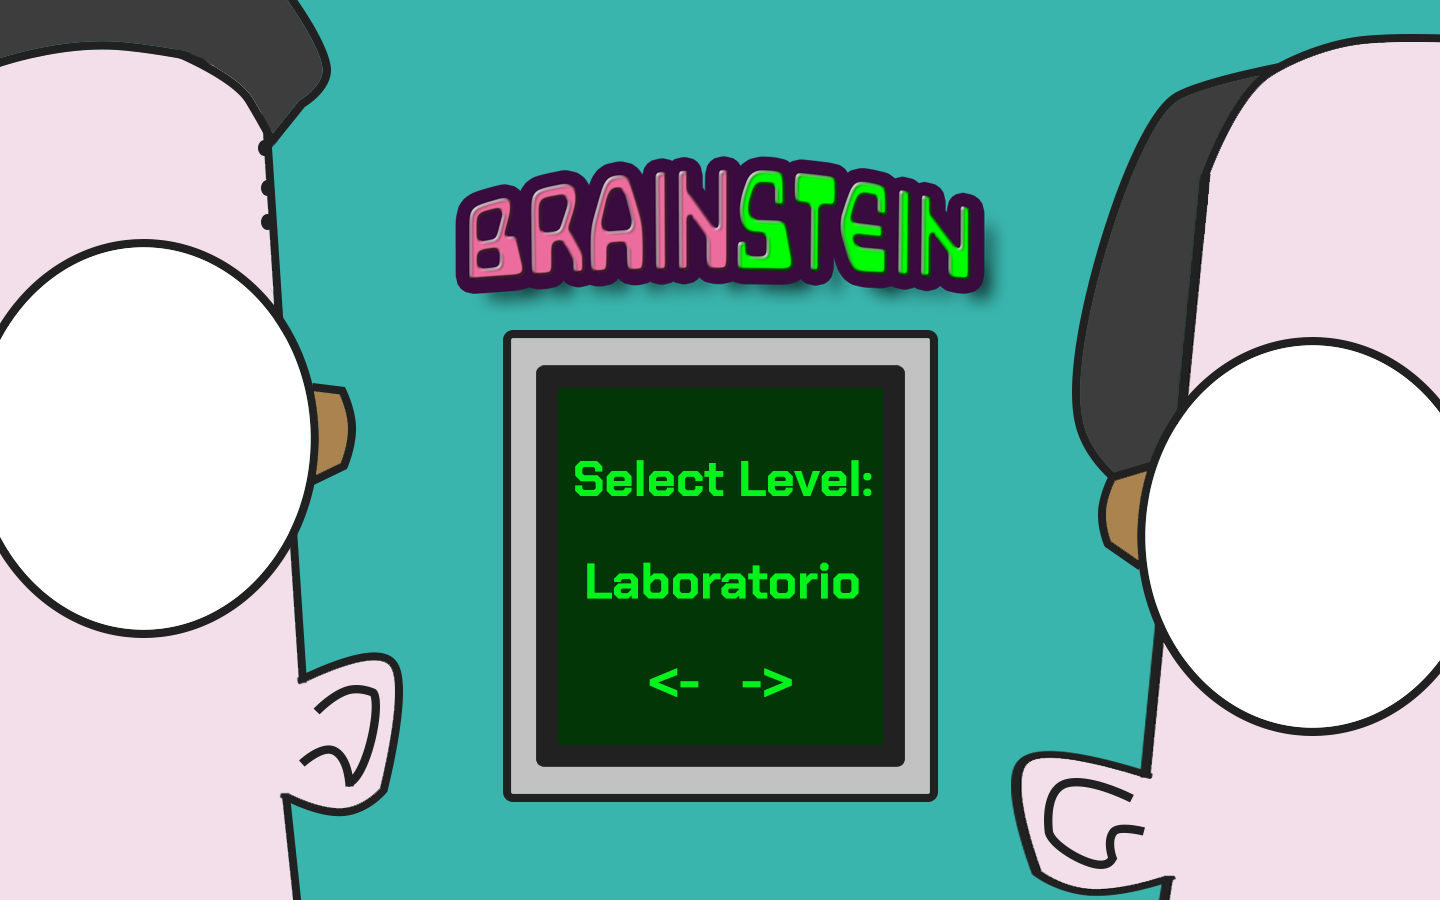
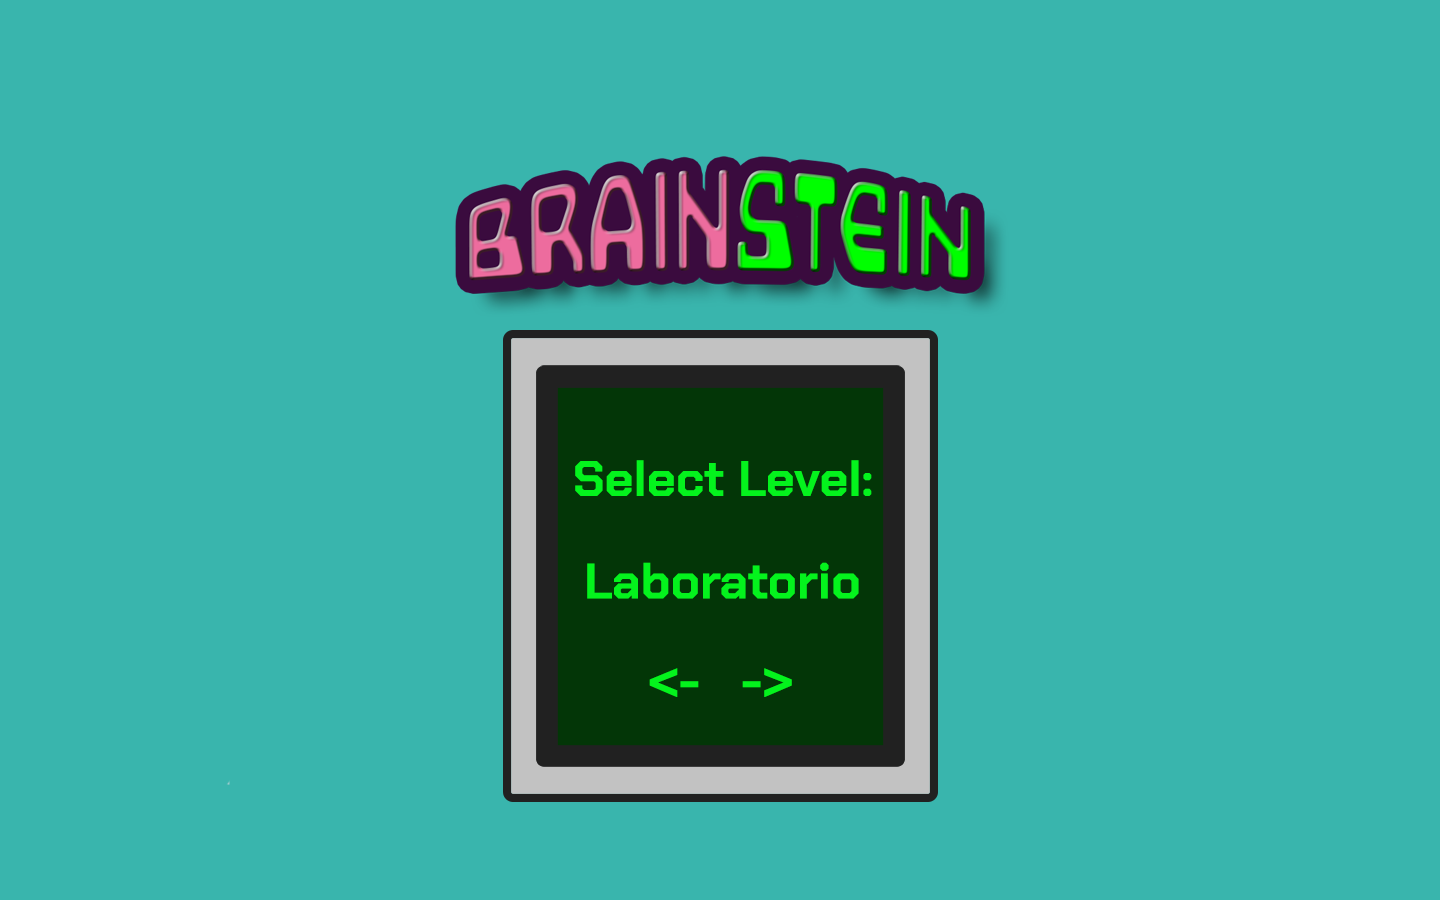
mejoras menu

diff --git a/Brainstein/js/states/LevelSelection.js b/Brainstein/js/states/LevelSelection.js
@@ -1,13 +1,29 @@
 var Brainstein = Brainstein || {};
 Brainstein.LevelSelection = function(){};
-
+var num = 0;
+var aux = 0;
 Brainstein.LevelSelection = {
 	create: function(){
 		//Show background					
 		this.background = this.game.add.sprite(0, 0, 'mainMenuSplash');		
 		this.background.width = (this.game.width);
         this.background.height = (this.game.height);
+        /*
+        this.manoErwin = this.game.add.sprite(this.game.width/2, this.game.height * 2/3, 'mano');
+        this.manoErwin.anchor.setTo(1,0);
+        this.manoErwin.x = this.game.width /2;        
+        this.manoDarwin = this.game.add.sprite(this.game.width/2, this.game.height * 2/3, 'mano');
+        this.manoDarwin.scale.x *= -1;
+        this.manoDarwin.anchor.setTo(1,0);
+        */
+       this.menuErwin = this.game.add.sprite(-5,-30, 'menuErwin');
+       this.menuErwin.width = (this.game.width / 3);
+       this.menuErwin.height = (this.game.height + this.game.height *0.2 );
 
+       this.menuDarwin = this.game.add.sprite(this.game.width *2/3,-30, 'menuDarwin');	
+       this.menuDarwin.width = (this.game.width / 3);
+       this.menuDarwin.height = (this.game.height + this.game.height *0.2);
+        
         this.levels = ["Laboratorio", "Zombiehenge", "Ratlabyrinth"];
         
         this.levelSelected = 0;
@@ -20,6 +36,16 @@ Brainstein.LevelSelection = {
 	},
 
 	update: function(){
+        
+		//this.manoErwin.x = this.manoErwin.x + Math.sin(aux);
+        //this.manoDarwin.x = this.manoDarwin.x - Math.sin(aux);
+        //aux =+ 3;
+       this.menuErwin.y = this.menuErwin.y + Math.sin(num);
+		this.menuErwin.x = this.menuErwin.x + Math.cos(num);
+		this.menuDarwin.y = this.menuDarwin.y + Math.cos(num);
+		this.menuDarwin.x = this.menuDarwin.x + Math.sin(num);
+        num += 0.8;
+        
 		if(this.game.input.keyboard.isDown(Phaser.Keyboard.ENTER)){
             this.game.switchOptionSound.play();
 			this.game.state.start('Game');

diff --git a/Brainstein/js/states/MainMenu.js b/Brainstein/js/states/MainMenu.js
@@ -1,9 +1,10 @@
 var Brainstein = Brainstein || {};
 Brainstein.MainMenu = function(){};
-var num = 0;
 Brainstein.MainMenu = {
 	
 	create: function(){
+
+
 		this.game.mainMenuMusic = this.game.add.audio('mainMenuMusic');
 		this.game.mainMenuMusic.lopp = true;
 		this.game.keyboardSound = this.game.add.audio('keyboardSound');
@@ -16,13 +17,17 @@ Brainstein.MainMenu = {
 		this.background.width = (this.game.width);
 		this.background.height = (this.game.height);
 		//Show menu sprites
-		this.menuErwin = this.game.add.sprite(0, 0, 'menuErwin');
+		this.menuErwin = this.game.add.sprite(0, -30, 'menuErwin');
 		this.menuErwin.width = (this.game.width / 3);
-		this.menuErwin.height = (this.game.height);
+		this.menuErwin.height = (this.game.height + this.game.height *0.2 );
 
-		this.menuDarwin = this.game.add.sprite(this.game.width *2/3, 0, 'menuDarwin');	
+		this.menuDarwin = this.game.add.sprite(this.game.width *2/3, -30, 'menuDarwin');	
 		this.menuDarwin.width = (this.game.width / 3);
-		this.menuDarwin.height = (this.game.height);
+		this.menuDarwin.height = (this.game.height + this.game.height *0.2);
+		this.dt = 0;
+		this.speed = 0.02;
+
+			
 	},
 
 	start: function(){
@@ -105,11 +110,11 @@ Brainstein.MainMenu = {
 	},
 	update: function(){
 
-		this.menuErwin.y = this.menuErwin.y + Math.sin(num);
-		this.menuErwin.x = this.menuErwin.x + Math.cos(num);
-		this.menuDarwin.y = this.menuDarwin.y + Math.cos(num);
-		this.menuDarwin.x = this.menuDarwin.x + Math.sin(num);
-		num += 0.8;
+		this.menuErwin.position.y = this.menuErwin.y + Math.sin(this.dt) * 0.2;
+		//this.menuErwin.position.x = this.menuErwin.x + Math.cos(num);
+		this.menuDarwin.position.y = this.menuDarwin.y + Math.cos(this.dt) * 0.2;
+		//this.menuDarwin.position.x = this.menuDarwin.x + Math.sin(num);
+		this.dt += this.speed;
 
 		if(this.game.input.keyboard.isDown(Phaser.Keyboard.ENTER)){
 			this.game.state.start('LevelSelection');

diff --git a/Brainstein/js/states/Preload.js b/Brainstein/js/states/Preload.js
@@ -22,8 +22,9 @@ Brainstein.Preload = {
 		this.load.image('mainMenuSplash','assets/images/menu_ppal.png');
 		this.load.image('mainMenuSplashEnter','assets/images/menu_ppal.png');
 		this.load.image('mainMenuFlat','assets/images/menu ppal 2.png');
-		this.load.image('menuDarwin','assets/images/menu_darwin.png');
-		this.load.image('menuErwin','assets/images/menu_erwin.png');
+		this.load.image('menuDarwin','assets/images/menu_darwin_2.png');
+		this.load.image('menuErwin','assets/images/menu_erwin_2.png');
+		this.load.image('mano','assets/images/mano 1.png');
 
 		this.load.image('pauseMenu','assets/images/pause_menu_ph.png');
 
